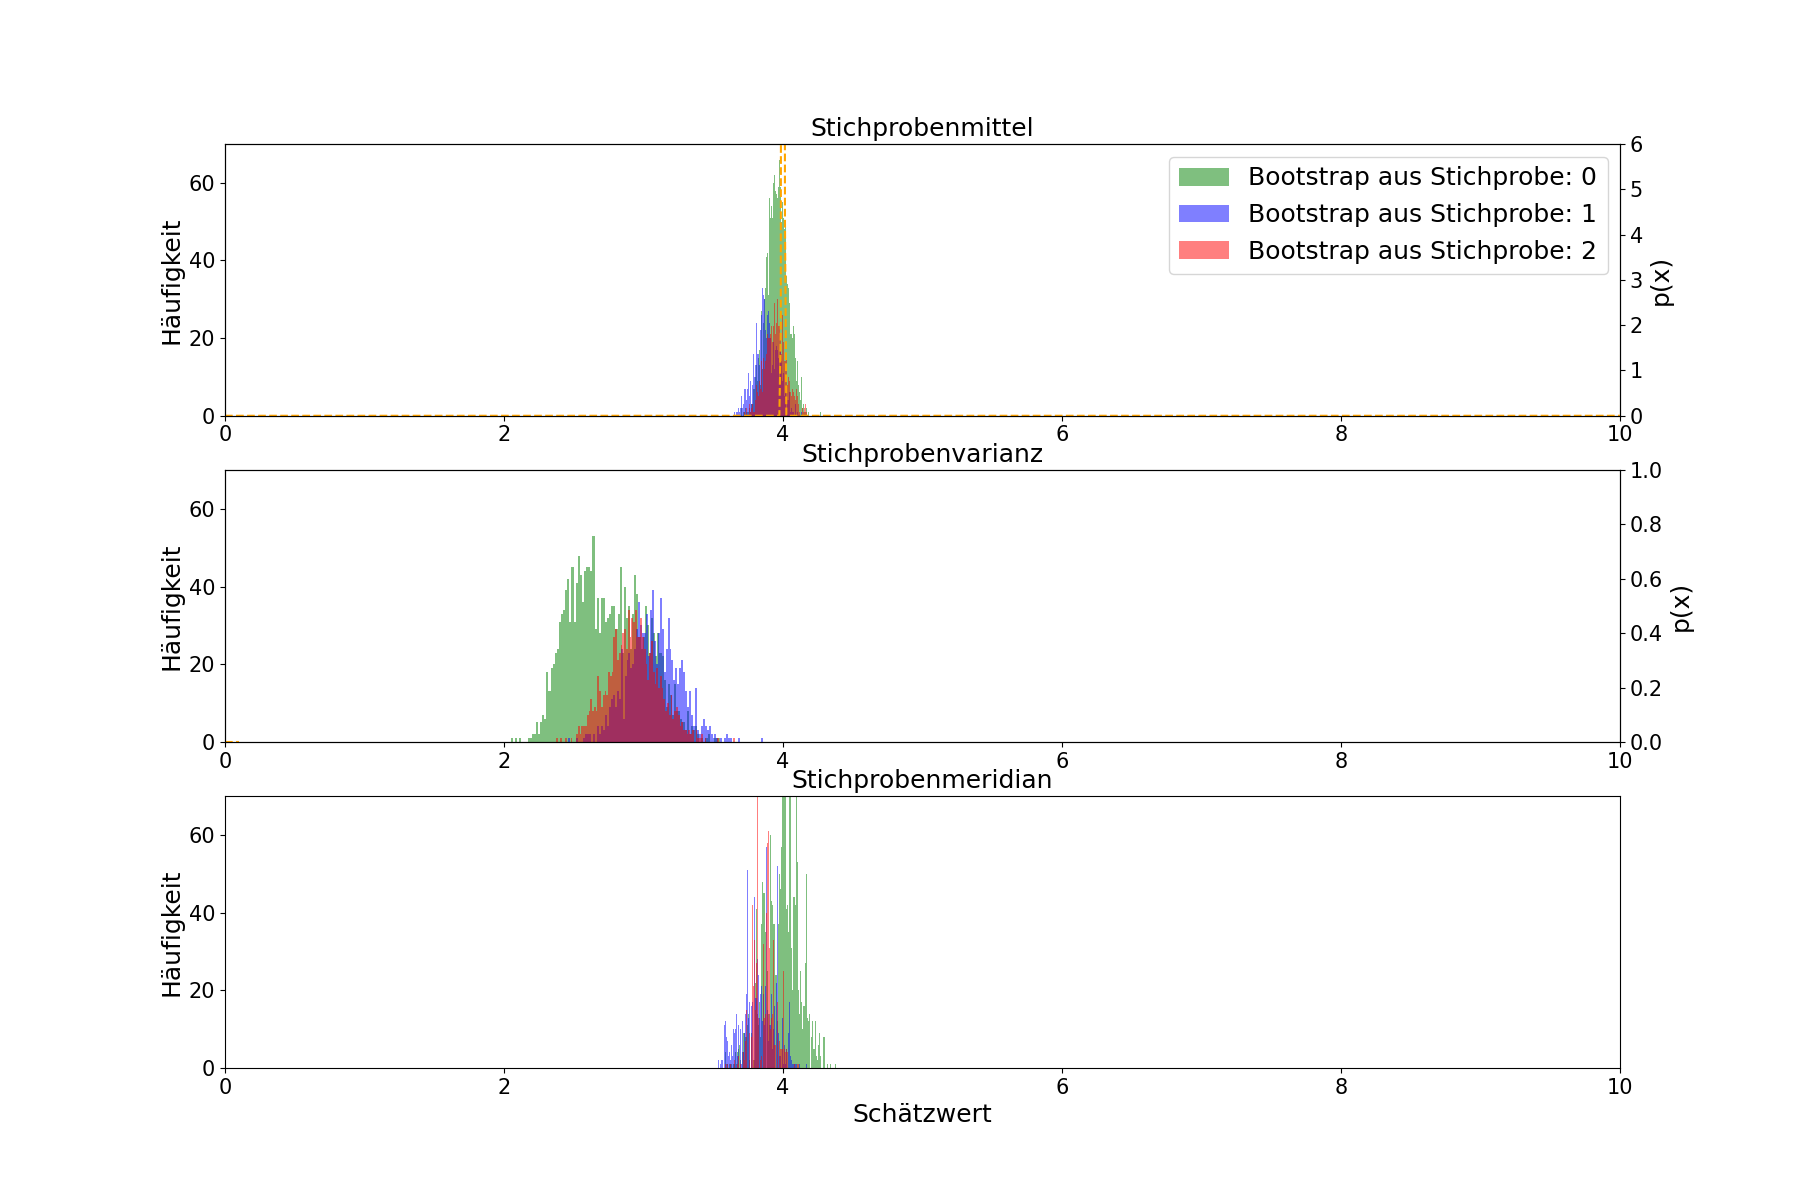
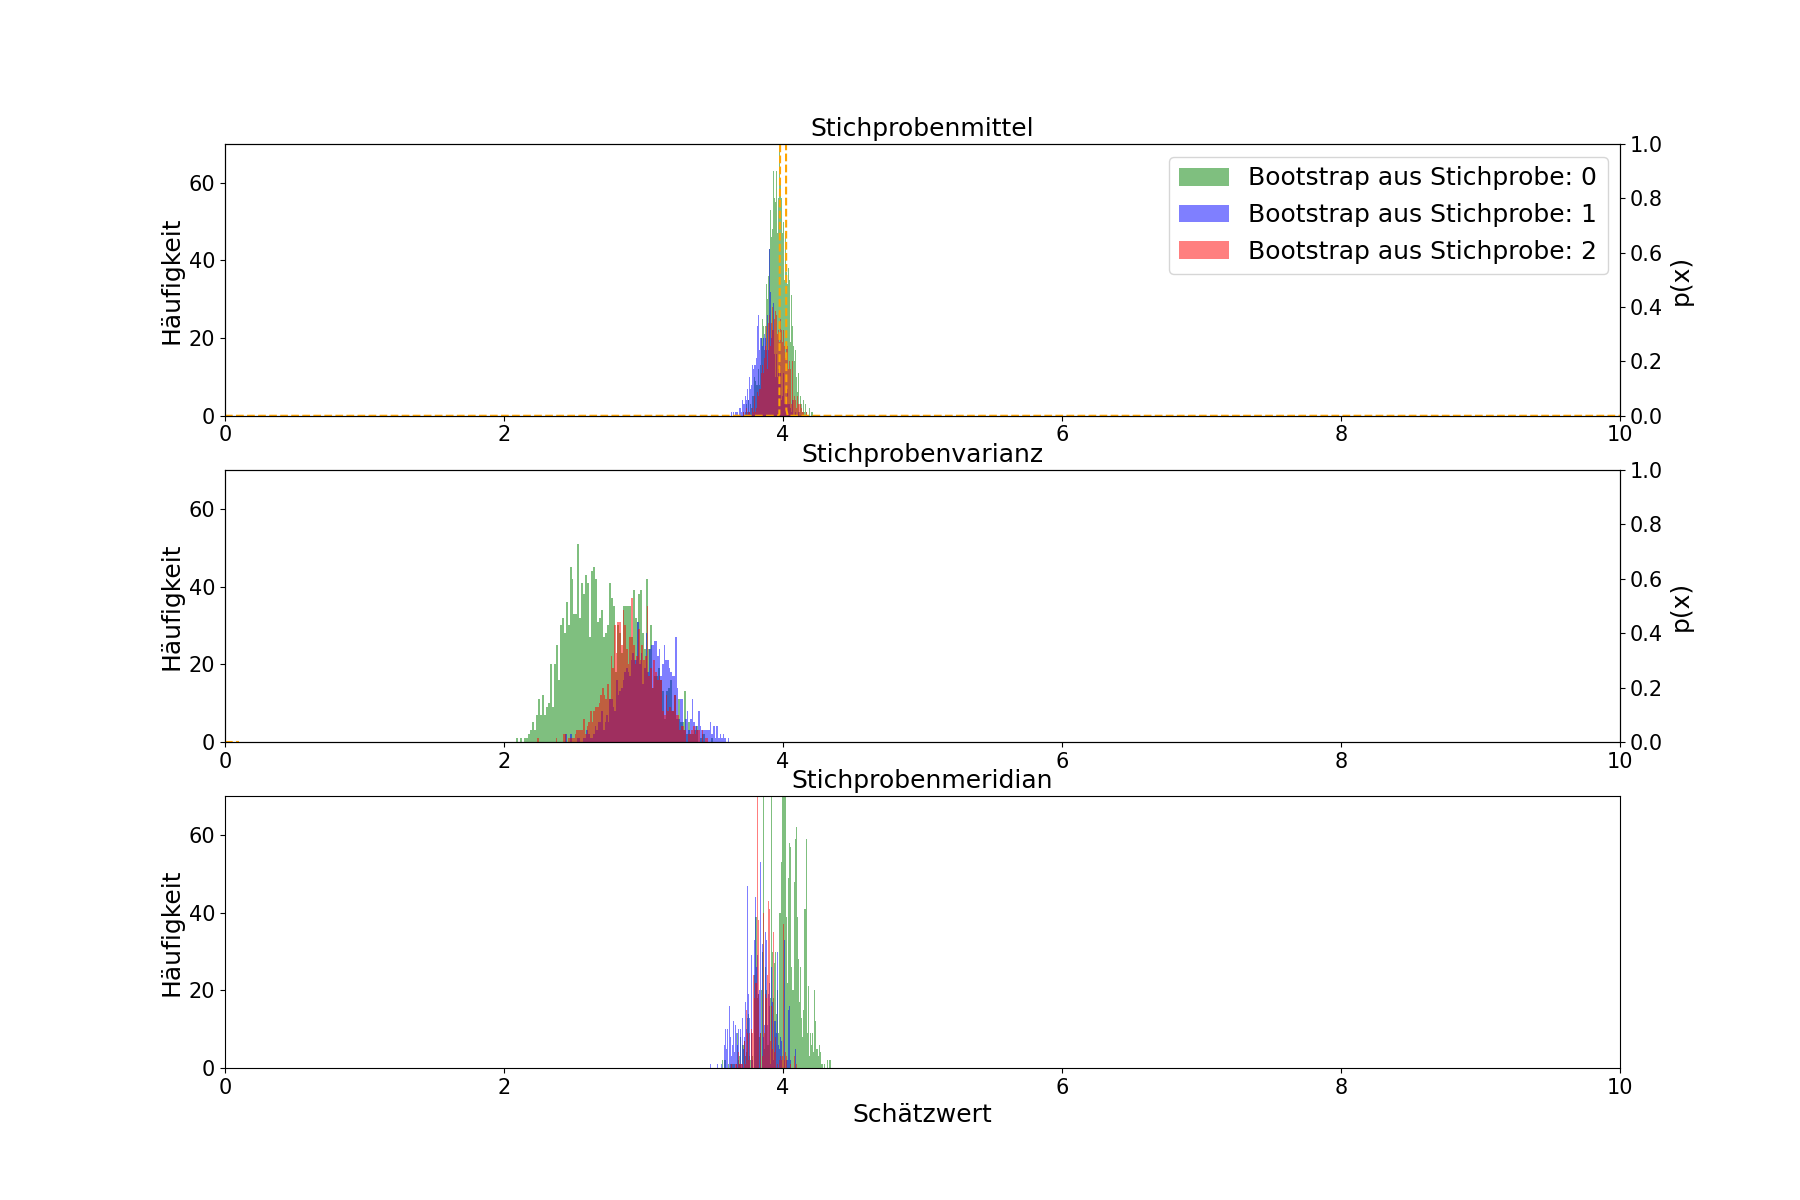
changed 0,6 to 0,1,  added plots of 1

diff --git a/Uebung2/Aufgabe1.py b/Uebung2/Aufgabe1.py
@@ -113,7 +113,7 @@ def plot_boot(size, df, mu, var, number_str):
             ax2.plot(x_values, p_x, color=colors[j], linestyle='--')
             ax2.set_ylabel('p(x)',fontsize=18)
             ax2.tick_params(axis='both', labelsize=15)
-            ax2.set_ylim([0, 6])
+            ax2.set_ylim([0, 1])
 
         elif estimator == 'Stichprobenvarianz':
             ax2 = ax.twinx()
